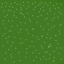
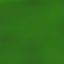
textures working, commiting before cleaning up

diff --git a/src/main.cpp b/src/main.cpp
@@ -11,6 +11,7 @@
 #include <iostream>
 #include <chunk.hpp>
 #include <chunkmanager.hpp>
+#include <thread>
 
 // Definitions
 const float SCR_WIDTH = 1280.f;
@@ -19,12 +20,37 @@ const float SCR_HEIGHT = 720.f;
 // Debugging
 int success;
 char infoLog[512];
-bool isDebugged = true;
+bool isDebugged = false;
 
 // Lighting
 glm::vec3 lightPos(0.f, 6.0f, 0.f);
 
 int chunkX = 0, chunkZ = 0;
+
+int image_load(const char image_path[]){
+    unsigned int texture;
+    int image_w, image_h, image_channels;
+    glGenTextures(1, &texture);
+    glBindTexture(GL_TEXTURE_2D, texture);
+    glTexParameteri(GL_TEXTURE_2D, GL_TEXTURE_WRAP_S, GL_CLAMP_TO_EDGE);
+    glTexParameteri(GL_TEXTURE_2D, GL_TEXTURE_WRAP_T, GL_CLAMP_TO_EDGE);
+    glTexParameteri(GL_TEXTURE_2D, GL_TEXTURE_MIN_FILTER, GL_LINEAR_MIPMAP_LINEAR);
+    glTexParameteri(GL_TEXTURE_2D, GL_TEXTURE_MAG_FILTER, GL_LINEAR);
+    // Image handling
+    stbi_set_flip_vertically_on_load(true);
+    unsigned char *data = stbi_load(image_path, &image_w, &image_h, &image_channels, 0);
+    if (data)
+    {
+        glTexImage2D(GL_TEXTURE_2D, 0, GL_RGB, image_w, image_h, 0, GL_RGBA, GL_UNSIGNED_BYTE, data);
+        glGenerateMipmap(GL_TEXTURE_2D);
+    }
+    else
+    {
+        std::cout << "ERROR::TEXTURE::LOADING_FAILED\n";
+    }
+    stbi_image_free(data);
+    return texture;
+}
 
 int main()
 {
@@ -58,28 +84,17 @@ int main()
     printf("Version GLSL: %s\n", glGetString(GL_SHADING_LANGUAGE_VERSION));
 
     // Build and compile shader programs
-    Shader shader("shaders/1.vs", "shaders/1.fs");
+    Shader shader("shaders/2.vs", "shaders/2.fs");
+    Shader water("shaders/water/water.vs", "shaders/water/water.fs");
     // Vertex data
-    unsigned int VAO, VBO;
+    /*unsigned int VAO, VBO;
     glGenVertexArrays(1, &VAO);
     glGenBuffers(1, &VBO);
 
     glBindVertexArray(VAO);
 
     glBindBuffer(GL_ARRAY_BUFFER, VBO);
-
-    // Position attribute
-    glVertexAttribPointer(0, 3, GL_FLOAT, GL_FALSE, 8 * sizeof(float), (void *)0);
-    glEnableVertexAttribArray(0);
-
-    // Texture attribute
-    glVertexAttribPointer(1, 2, GL_FLOAT, GL_FALSE, 8 * sizeof(float), (void *)(3 * sizeof(float)));
-    glEnableVertexAttribArray(1);
-
-    // Normal attribute
-    glVertexAttribPointer(2, 3, GL_FLOAT, GL_FALSE, 8 * sizeof(float), (void *)(5 * sizeof(float)));
-    glEnableVertexAttribArray(2);
-
+    */
     // Light VAO
     unsigned int lightVAO;
     glGenVertexArrays(1, &lightVAO);
@@ -88,15 +103,18 @@ int main()
     glVertexAttribPointer(0, 3, GL_FLOAT, GL_FALSE, 8 * sizeof(float), (void *)0);
     glEnableVertexAttribArray(0);
 
-    unsigned int texture, texture1;
-    glGenTextures(1, &texture);
-    glBindTexture(GL_TEXTURE_2D, texture);
+    unsigned int brick, grass;
+    int image_w, image_h, image_channels;
+    brick = image_load("img/brick.png");
+    grass = image_load("img/grass.png");
+    /*
+    glGenTextures(1, &brick);
+    glBindTexture(GL_TEXTURE_2D, brick);
     glTexParameteri(GL_TEXTURE_2D, GL_TEXTURE_WRAP_S, GL_CLAMP_TO_EDGE);
     glTexParameteri(GL_TEXTURE_2D, GL_TEXTURE_WRAP_T, GL_CLAMP_TO_EDGE);
     glTexParameteri(GL_TEXTURE_2D, GL_TEXTURE_MIN_FILTER, GL_LINEAR_MIPMAP_LINEAR);
     glTexParameteri(GL_TEXTURE_2D, GL_TEXTURE_MAG_FILTER, GL_LINEAR);
     // Image handling
-    int image_w, image_h, image_channels;
     stbi_set_flip_vertically_on_load(true);
     unsigned char *data = stbi_load("img/brick.png", &image_w, &image_h, &image_channels, 0);
     if (data)
@@ -109,15 +127,17 @@ int main()
         std::cout << "ERROR::TEXTURE::LOADING_FAILED\n";
     }
     stbi_image_free(data);
-    glGenTextures(1, &texture1);
-    glBindTexture(GL_TEXTURE_2D, texture1);
+    
+
+    glGenTextures(1, &grass);
+    glBindTexture(GL_TEXTURE_2D, grass);
     glTexParameteri(GL_TEXTURE_2D, GL_TEXTURE_WRAP_S, GL_CLAMP_TO_EDGE);
     glTexParameteri(GL_TEXTURE_2D, GL_TEXTURE_WRAP_T, GL_CLAMP_TO_EDGE);
     glTexParameteri(GL_TEXTURE_2D, GL_TEXTURE_MIN_FILTER, GL_LINEAR_MIPMAP_LINEAR);
     glTexParameteri(GL_TEXTURE_2D, GL_TEXTURE_MAG_FILTER, GL_LINEAR);
     // Image handling
     stbi_set_flip_vertically_on_load(true);
-    data = stbi_load("img/grass.png", &image_w, &image_h, &image_channels, 0);
+    unsigned char *data = stbi_load("img/grass.png", &image_w, &image_h, &image_channels, 0);
     if (data)
     {
         glTexImage2D(GL_TEXTURE_2D, 0, GL_RGB, image_w, image_h, 0, GL_RGBA, GL_UNSIGNED_BYTE, data);
@@ -128,10 +148,8 @@ int main()
         std::cout << "ERROR::TEXTURE::LOADING_FAILED\n";
     }
     stbi_image_free(data);
-    //shader.use();
-    shader.setInt("texture", 0);
-    // or set it via the texture class
-    shader.setInt("texture1", 1);
+    */
+
     ChunkManager chunkmanager;
     chunkmanager.UpdateLoadList(chunkX, chunkZ);
     chunkmanager.UpdateVisibilityList(chunkX, chunkZ);
@@ -147,10 +165,6 @@ int main()
         glClearColor(0.529f, 0.808f, 0.922f, 1.0f);
         glClear(GL_COLOR_BUFFER_BIT | GL_DEPTH_BUFFER_BIT);
         
-        // bind textures
-        glActiveTexture(GL_TEXTURE0);
-        glBindTexture(GL_TEXTURE_2D, texture);
-
         // draw
         shader.use();
         shader.setVec3("lightColor", 1.0f, 1.0f, 1.0f);
@@ -168,16 +182,10 @@ int main()
         view = glm::translate(view, glm::vec3(0.0f, 0.0f, 0.0f));
         shader.setMat4("projection", projection);
         shader.setMat4("view", view);
-        glBindVertexArray(VAO);
-        glActiveTexture(GL_TEXTURE0);
-        glBindTexture(GL_TEXTURE_2D, texture);
-        glActiveTexture(GL_TEXTURE1);
-        glBindTexture(GL_TEXTURE_2D, texture1);
         // chunk logic
         if(chunkX!=static_cast<int>(cameraPos.x)/16 || chunkZ!=static_cast<int>(cameraPos.z)/16){
             chunkX = static_cast<int>(cameraPos.x)/16;
             chunkZ = static_cast<int>(cameraPos.z)/16;
-            std::cout<<"CHUNK CHANGED "<<chunkX<<" : "<<chunkZ<<"\n";
             chunkmanager.UpdateLoadList(chunkX, chunkZ);
             chunkmanager.UpdateUnloadList(chunkX, chunkZ);
             chunkmanager.UpdateRebuildList();
@@ -189,8 +197,8 @@ int main()
         glfwPollEvents();
         glfwSwapBuffers(window);
     }
-    glDeleteVertexArrays(1, &VAO);
-    glDeleteBuffers(1, &VBO);
+    //glDeleteVertexArrays(1, &VAO);
+    //glDeleteBuffers(1, &VBO);
     glfwTerminate();
     return 0;
 }

diff --git a/src/chunk.cpp b/src/chunk.cpp
@@ -6,27 +6,29 @@ Chunk::Chunk(int x, int z)
 {
     const siv::PerlinNoise::seed_type seed = 123456u;
     const siv::PerlinNoise perlin{seed};
+    double perlin_multiplier = 0.02;
     this->chunkX = x;
     this->chunkZ = z;
     this->chunkVisible = true;
     m_pBlocks = new Block **[CHUNK_SIZE];
     for (int i = 0; i < CHUNK_SIZE; i++)
     {
-        m_pBlocks[i] = new Block *[CHUNK_SIZE];
-        for (int j = 0; j < CHUNK_SIZE; j++) // used to be j
+        m_pBlocks[i] = new Block *[CHUNK_HEIGHT];
+        for (int j = 0; j < CHUNK_HEIGHT; j++) // used to be j
         {
             m_pBlocks[i][j] = new Block[CHUNK_SIZE];
             for (int k = 0; k < CHUNK_SIZE; k++) // used to be k
             {
-                const double noise = perlin.octave2D_01((chunkX * 16 + i) * 0.05, (chunkZ * 16 + k) * 0.05, 2);
-                if (noise >= static_cast<double>(j) / CHUNK_SIZE)
+                const double noise = perlin.octave2D_01((chunkX * 16 + i) * perlin_multiplier, (chunkZ * 16 + k) * perlin_multiplier, 2);
+                if (noise >= static_cast<double>(j) / CHUNK_HEIGHT)
                 {
-                    if (j < CHUNK_SIZE/2)
+                    if (j < CHUNK_HEIGHT/2)
                     {
                         m_pBlocks[i][j][k].setBlockType(Brick);
                     }
                     else
                     {
+                        //printf("Grass at [%i %i %i]\n",i,j,k);
                         m_pBlocks[i][j][k].setBlockType(Grass);
                     }
                 }
@@ -37,8 +39,8 @@ Chunk::Chunk(int x, int z)
             }
         }
     }
-    m_pTextures.push_back({1, "Brick"});
-    m_pTextures.push_back({2, "Grass"});
+    m_pTextures.push_back({1, "brick"});
+    m_pTextures.push_back({2, "grass"});
 }
 Chunk::~Chunk()
 {
@@ -73,7 +75,7 @@ bool Chunk::isBlockSurrounded(int x, int y, int z)
 
                 // Check if the neighboring block is within chunk bounds
                 if (nx >= 0 && nx < CHUNK_SIZE &&
-                    ny >= 0 && ny < CHUNK_SIZE &&
+                    ny >= 0 && ny < CHUNK_HEIGHT &&
                     nz >= 0 && nz < CHUNK_SIZE)
                 {
                     // Check if the neighboring block is empty or not obstructing
@@ -95,7 +97,7 @@ void Chunk::Update()
 {
     for (int x = 0; x < CHUNK_SIZE; x++)
     {
-        for (int y = 0; y < CHUNK_SIZE; y++)
+        for (int y = 0; y < CHUNK_HEIGHT; y++)
         {
             for (int z = 0; z < CHUNK_SIZE; z++)
             {
@@ -120,13 +122,14 @@ void Chunk::Render(Shader &shader)
 
         // Calculate translation for each cube based on its position in the chunk
         int x = i % CHUNK_SIZE;
-        int y = (i / CHUNK_SIZE) % CHUNK_SIZE;
+        int y = (i / CHUNK_HEIGHT) % CHUNK_HEIGHT;
         int z = (i / (CHUNK_SIZE * CHUNK_SIZE)) % CHUNK_SIZE;
 
         glm::vec3 blockTranslate = glm::vec3(x + chunkX * CHUNK_SIZE, y, z + chunkZ * CHUNK_SIZE);
         model = glm::translate(model, blockTranslate);
 
         shader.setMat4("model", model);
+        shader.setInt("texture1", i);
         meshes[i].Draw(shader);
     }
 }
@@ -134,18 +137,20 @@ void Chunk::Render(Shader &shader)
 void Chunk::createMesh()
 {
     meshes.clear();
-    for (int i = 1; i <= Grass; i++)
+    std::vector<Vertex> p_blockMesh_vertices;
+    std::vector<unsigned int> cubeIndices;
+    for (int block_type = 1; block_type <= Grass; block_type++)
     {
-        std::vector<Vertex> p_blockMesh_vertices;
-        std::vector<unsigned int> cubeIndices;
+        p_blockMesh_vertices.clear();
+        cubeIndices.clear();
         // Calculate the starting position of the chunk in the world coordinates
         for (int x = 0; x < CHUNK_SIZE; x++)
         {
-            for (int y = 0; y < CHUNK_SIZE; y++)
+            for (int y = 0; y < CHUNK_HEIGHT; y++)
             {
                 for (int z = 0; z < CHUNK_SIZE; z++)
                 {
-                    if (m_pBlocks[x][y][z].getBlockType() == i)
+                    if (m_pBlocks[x][y][z].getBlockType() == block_type)
                     {
                         //std::cout<<"Block type : "<<m_pBlocks[x][y][z].getBlockType()<<"\n";
                         // Calculate the translation for the current block within the chunk
@@ -157,7 +162,6 @@ void Chunk::createMesh()
                             Vertex vertex;
                             vertex.Position = glm::vec3(cubeVertices[i * 8], cubeVertices[i * 8 + 1], cubeVertices[i * 8 + 2]) + blockTranslate;
                             vertex.Normal = glm::vec3(cubeVertices[i * 8 + 3], cubeVertices[i * 8 + 4], cubeVertices[i * 8 + 5]);
-                            // vertex.TexCoords = glm::vec2(cubeVertices[i * 8 + 6], cubeVertices[i * 8 + 7]);
                             //std::cout << m_pBlocks[x][y][z].getBlockType() << "\n";
                             vertex.TexCoords = glm::vec2(cubeVertices[i * 8 + 6], cubeVertices[i * 8 + 7]);
                             p_blockMesh_vertices.push_back(vertex);
@@ -168,6 +172,7 @@ void Chunk::createMesh()
                         {
                             cubeIndices.push_back(i + p_blockMesh_vertices.size() - 36);
                         }
+                        
                     }
                 }
             }

diff --git a/src/mesh.cpp b/src/mesh.cpp
@@ -71,8 +71,8 @@ void Mesh::Draw(Shader &shader)
     //glPolygonMode(GL_FRONT_AND_BACK, GL_LINE);
     // Draw mesh
     glBindVertexArray(VAO);
-    //glDrawElements(GL_TRIANGLES, indices.size(), GL_UNSIGNED_INT, 0);
-    glDrawArrays(GL_TRIANGLES, 0, indices.size());
+    glDrawElements(GL_TRIANGLES, indices.size(), GL_UNSIGNED_INT, 0);
+    //glDrawArrays(GL_TRIANGLES, 0, indices.size());
     glBindVertexArray(0);
 
     // Reset texture units to default

diff --git a/headers/chunkmanager.hpp b/headers/chunkmanager.hpp
@@ -10,6 +10,7 @@ class ChunkManager{
     std::vector<Chunk*> visibleChunks;
 public:
     const int RENDER_DISTANCE = 4;
+    const int PRELOAD_DISTANCE = 1;
     void UpdateLoadList(int playerX, int playerZ);
     void UpdateRebuildList();
     void UpdateUnloadList(int playerX, int playerZ);

diff --git a/src/camera.cpp b/src/camera.cpp
@@ -1,7 +1,7 @@
 #include <camera.hpp>
 
 // Camera variables
-glm::vec3 cameraPos = glm::vec3(0.0f, 16.0f, 0.0f);
+glm::vec3 cameraPos = glm::vec3(0.0f, 64.0f, 0.0f);
 glm::vec3 cameraFront = glm::vec3(0.0f, 0.0f, -1.0f);
 glm::vec3 cameraUp = glm::vec3(0.0f, 1.0f, 0.0f);
 glm::vec3 direction;

diff --git a/headers/chunk.hpp b/headers/chunk.hpp
@@ -12,7 +12,7 @@ class Chunk
     std::vector<Mesh> meshes;
 public:
     static const int CHUNK_SIZE = 16;
-    static const int CHUNK_HEIGHT = 64;
+    static const int CHUNK_HEIGHT = 32;
     Chunk(int x, int z);
     ~Chunk();
     bool isBlockSurrounded(int x, int y, int z);

diff --git a/headers/block.hpp b/headers/block.hpp
@@ -6,7 +6,8 @@ enum BlockType
 {
     Air = 0,
     Brick,
-    Grass
+    Grass,
+    Water
 };
 
 class Block
